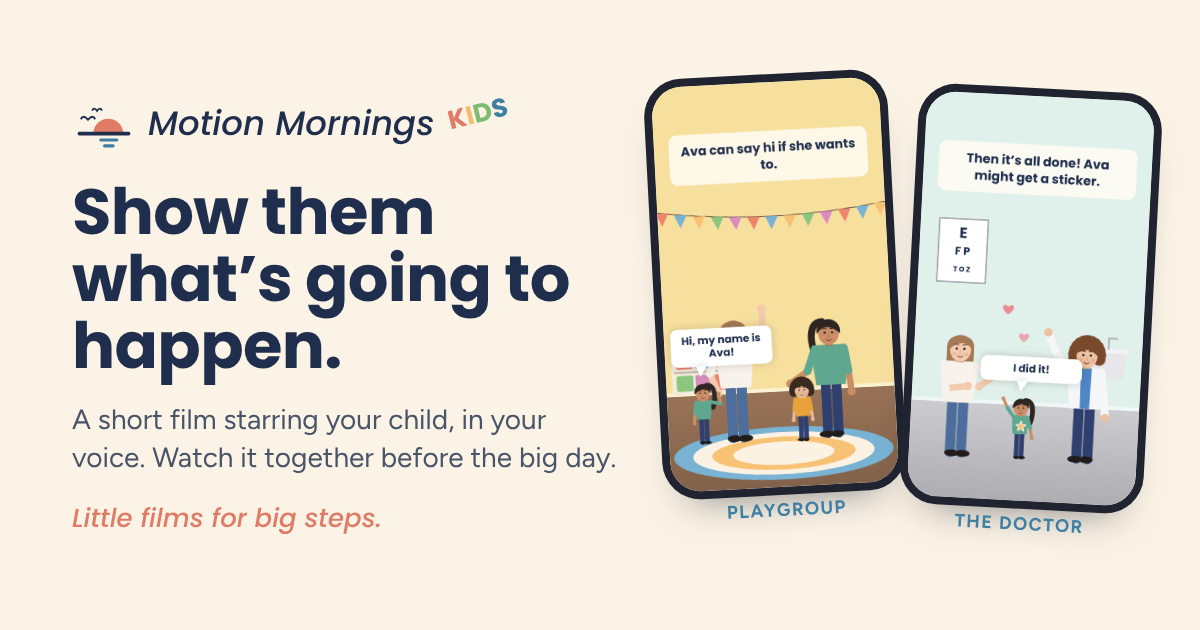
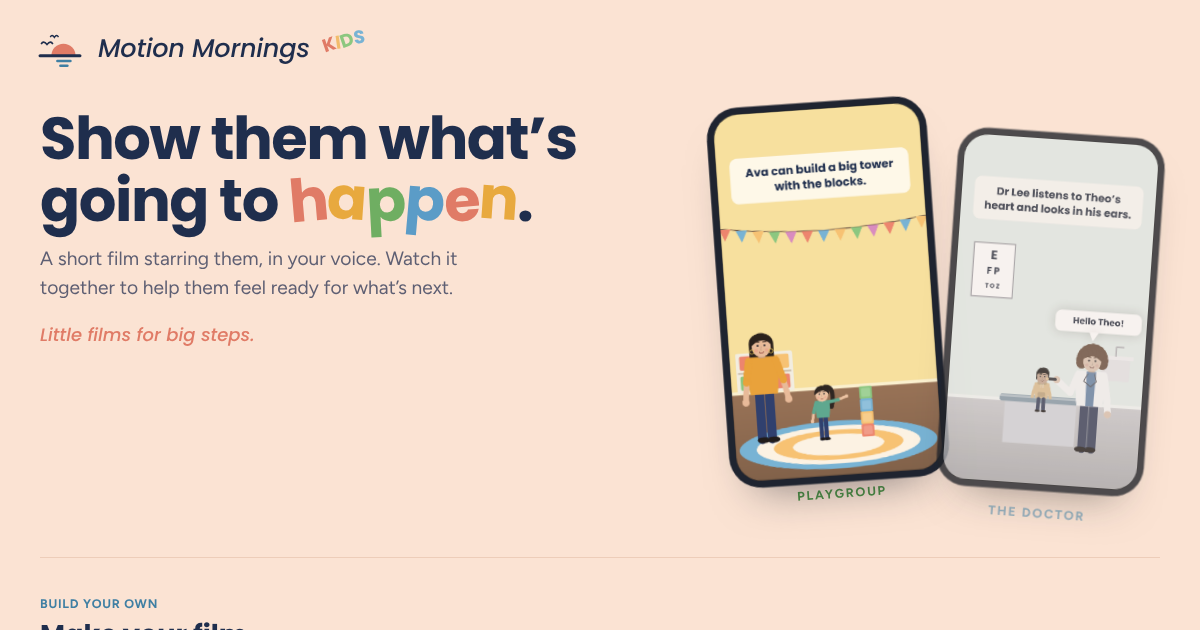
Look-over fixes: natural stand-in wording in the kids builder, Playgroup spelling, fresh link-preview images and text (own preview for /you), old kids box removed from /you, roomier kids header on phones (#32)
Claude-Session: https://claude.ai/code/session_01EiGRAPB16WZcCR3Jve5B77

diff --git a/kids.js b/kids.js
@@ -21,8 +21,8 @@
   const MUSIC = [['none', 'No music'], ['morning-mood', 'Morning Mood'], ['italian-andante', 'Italian Andante'], ['vltava', 'Vltava'], ['figaro', 'Figaro']];
   const TEMPLATES = {
     playgroup: { label: 'Playgroup', blurb: 'Arriving, toys, other kids, going home', story: {
-      title: '{child} Goes to Play Group', ending: 'Play group was fun!', steps: [
-        { scene: 'goto', place: 'Play group', text: 'Today {adult} and {child} are going to play group.' },
+      title: '{child} Goes to Playgroup', ending: 'Playgroup was fun!', steps: [
+        { scene: 'goto', place: 'Playgroup', text: 'Today {adult} and {child} are going to playgroup.' },
         { scene: 'arrive', text: 'When they get there, {helper} will say hello.', say: { who: 'child', words: 'Hi {helper}!' } },
         { scene: 'blocks', text: '{child} can play with all the toys.' },
         { scene: 'others', text: 'Other kids and grown-ups will come too.' },
@@ -421,7 +421,7 @@
     drawPortraits(0);
   }
   // a new name flows through the story: the old name (or the stand-in) is swapped wherever it appears
-  const STAND_IN = { child: 'the child', adult: 'Mum', helper: 'a friend', baby: 'the baby' };
+  const STAND_IN = { child: 'your little one', adult: 'Mum', helper: 'a friend', baby: 'the baby' };
   const standIn = role => role === 'adult' ? ({ m: 'Dad', f: 'Mum', x: 'their grown-up' }[sexOf(S.cast.adult)]) : role === 'sibling' ? ({ m: 'their brother', f: 'their sister', x: 'their sibling' }[sexOf(S.cast.siblings[0] || {})]) : STAND_IN[role];
   function renameIn(role, oldName, newName) {
     const from = (oldName || '').trim() || standIn(role), to = newName.trim() || standIn(role);
@@ -529,7 +529,7 @@
       const sc = K.SC[st.scene] || K.SC.goto, cv = el('canvas', { width: 168, height: 299 });
       const thumb = el('button', { class: 'thumb', type: 'button', 'aria-label': `Step ${i + 1} picture: ${sc.label}. Change it`, onclick: () => pickScene(st) }, cv, el('span', { class: 'chg' }, 'Change'));
       const extras = el('div', { class: 'extras' },
-        sc.place ? el('label', {}, 'Sign on the building', el('input', { type: 'text', id: `place-${st.id}`, value: st.place || '', maxlength: '20', placeholder: 'e.g. Play group', oninput: e => { st.place = e.target.value; sceneThumb(cv, st.scene, st.place, st); refresh(); seekTo(st.id); } })) : null,
+        sc.place ? el('label', {}, 'Sign on the building', el('input', { type: 'text', id: `place-${st.id}`, value: st.place || '', maxlength: '20', placeholder: 'e.g. Playgroup', oninput: e => { st.place = e.target.value; sceneThumb(cv, st.scene, st.place, st); refresh(); seekTo(st.id); } })) : null,
         el('label', {}, 'Clock shows a time', el('input', { type: 'text', id: `time-${st.id}`, value: st.time || '', maxlength: '8', placeholder: 'e.g. 9:00', inputmode: 'numeric', oninput: e => { st.time = e.target.value; refresh(); seekTo(st.id); } })),
         sc.pair && S.cast.friends.length && S.cast.siblings.length ? el('label', {}, 'The other child', el('select', { id: `with-${st.id}`, onchange: e => { st.with = e.target.value; sceneThumb(cv, st.scene, st.place, st); refresh(); seekTo(st.id); } }, [['sibling', S.cast.siblings[0].name || 'Brother or sister'], ['friend', S.cast.friends[0].name || 'Friend']].map(([v, n]) => el('option', { value: v, selected: (st.with || (S.cast.siblings.length ? 'sibling' : 'friend')) === v }, n)))) : null,
         el('label', { class: 'switch glimpse' }, el('input', { type: 'checkbox', id: `glimpse-${st.id}`, checked: !!st.glimpse, onchange: e => { st.glimpse = e.target.checked; refresh(); seekTo(st.id); } }), 'Show as big calm words'));
@@ -564,7 +564,7 @@
         seen.add(key);
         const cv = el('canvas', { width: 180, height: 320 });
         g.append(el('button', { type: 'button', 'aria-pressed': String(st.scene === key), onclick: () => { st.scene = key; if (K.SC[key].place && !st.place) st.place = key === 'cafe' ? 'Cafe' : ''; $('#scenePick').hidden = true; renderStory(); refresh(); seekTo(st.id); } }, cv, el('span', {}, K.SC[key].label)));
-        sceneThumb(cv, key, st.place || (key === 'cafe' ? 'Cafe' : key === 'goto' ? 'Play group' : ''), st);
+        sceneThumb(cv, key, st.place || (key === 'cafe' ? 'Cafe' : key === 'goto' ? 'Playgroup' : ''), st);
       });
     });
     if (!all && shown !== K.PLACES) g.append(el('div', { class: 'more' }, el('button', { class: 'btn ghost', type: 'button', id: 'moreScenes', onclick: () => { pickScene(st, true); $('#scenePick .box').scrollTop = 0; } }, 'More scenes from other places')));

diff --git a/you.html b/you.html
@@ -5,7 +5,7 @@
 <meta name="color-scheme" content="light">
 <meta name="viewport" content="width=device-width,initial-scale=1,viewport-fit=cover">
 <title>Motion Mornings: see it every morning, live it every day</title>
-<meta name="description" content="Custom animated films starring you, or anyone in your world. Build the life you want, or show a child what's going to happen before the big day. See it first, then live it.">
+<meta name="description" content="A one-minute film starring you, doing the everyday things that build the life you want. See it every morning. Live it every day.">
 <meta name="theme-color" content="#FBF3E6">
 <link rel="icon" href="/favicon.svg" type="image/svg+xml">
 <link rel="apple-touch-icon" href="/apple-touch-icon.png">
@@ -18,9 +18,9 @@
 <script>if (/^#r=/.test(location.hash) || /[?&]r=/.test(location.search)) document.documentElement.className += ' restoring';</script>
 <meta property="og:type" content="website">
 <meta property="og:url" content="https://motionmornings.com/you.html">
-<meta property="og:title" content="Motion Mornings: little films for big steps">
-<meta property="og:description" content="Custom animated films starring you, or anyone in your world. See it first, then live it.">
-<meta property="og:image" content="https://motionmornings.com/og-home.png">
+<meta property="og:title" content="Motion Mornings: see it every morning, live it every day">
+<meta property="og:description" content="A one-minute film starring you, doing the everyday things that build the life you want. See it every morning. Live it every day.">
+<meta property="og:image" content="https://motionmornings.com/og-you.png?v=1">
 <meta property="og:image:width" content="1200">
 <meta property="og:image:height" content="630">
 <meta name="twitter:card" content="summary_large_image">
@@ -457,14 +457,6 @@ input[type=range]{height:30px;touch-action:none}
     </div>
   </section>
 
-  <section class="kidsband" aria-labelledby="kidsTitle">
-    <div class="kidscopy">
-      <span class="pill">Motion Mornings <span class="kidsword" aria-hidden="true"><span>K</span><span>I</span><span>D</span><span>S</span></span></span>
-      <h2 id="kidsTitle">Got a little one facing something new?</h2>
-      <p class="lede">Make a short film that shows them exactly what's going to happen, step by step, starring them and in your voice. Playgroup, trying a new food, a busy room. Watch it together until it feels familiar.</p>
-    </div>
-    <a class="btn coral" href="/kids.html">Make a kids film</a>
-  </section>
 
   <div id="builder" class="builder">
   <header class="buildhead"><span class="pill">Build your own</span><h2 id="buildTitle">Make your film</h2><p class="lede">Each morning it trains your mind to see you as someone who does these things. Pick what matters, add your people, check your scenes. The preview updates as you go.</p></header>

diff --git a/engine.js b/engine.js
@@ -2642,8 +2642,14 @@ const KIDS = (() => {
     const sx = c2 => c2.sex || (c2.body === 'm' ? 'm' : 'f'), sn = (SB(c).name || '').trim() || ({ m: 'their brother', f: 'their sister', x: 'their sibling' }[sx(SB(c))]), bn = (BB(c).name || '').trim() || 'the baby';
     const fn0 = ((c.friends && c.friends[0] && c.friends[0].name) || '').trim() || 'their friend';
     text = String(text || '').replace(/\{sibling\}/g, sn).replace(/\{baby\}/g, bn).replace(/\{friend\}/g, fn0);
-    const kn = (KID(c).name || '').trim() || 'the child', an = (AD(c).name || '').trim() || ({ m: 'Dad', f: 'Mum', x: 'their grown-up' }[sx(AD(c))]), hn = (HP(c).name || '').trim() || 'a friend';
-    return String(text || '').replace(/\{child\}/g, kn).replace(/\{adult\}/g, an).replace(/\{helper\}/g, hn);
+    // before names are typed in, stand-ins that still read naturally: "your little one", or "Little One" in a title
+    const raw = String(text || ''), isTitle = !/[.!?]\s*$/.test(raw.trim()) && /\{child\}/.test(raw) && /\b[A-Z][a-z]+\b.*\b[A-Z][a-z]+\b/.test(raw.replace(/\{[a-z]+\}/g, ''));
+    const kn = (KID(c).name || '').trim() || (isTitle ? 'Little One' : 'your little one'), an = (AD(c).name || '').trim() || ({ m: 'Dad', f: 'Mum', x: 'their grown-up' }[sx(AD(c))]), hn = (HP(c).name || '').trim() || 'a friend';
+    let out = raw.replace(/\{child\}/g, kn).replace(/\{adult\}/g, an).replace(/\{helper\}/g, hn);
+    out = out.replace(/\b(Hi|Hello|Bye|Goodbye),? (a friend|their friend|their brother|their sister|their sibling|the baby|your little one)!/gi, '$1!');
+    out = out.replace(/,? my name is (your little one|Little One)!/gi, '!');
+    // sentences start with a capital
+    return out.replace(/(^\s*|[.!?]\s+)([a-z])/g, (m, a, b) => a + b.toUpperCase());
   }
 
   // ---- timing: every step is long enough for its words, or for the voice recorded for it
@@ -2734,7 +2740,7 @@ const KIDS = (() => {
     pets: [{ type: 'dog', name: 'Biscuit', coat: '#C9A060', ears: 'floppy', size: 'm', muzzle: 'dark' }], baby: {} };
   const DEMOS = {
     playgroup: { label: 'Playgroup', music: 'morning-mood', cast: DEMO_CAST, story: { title: 'Ava Goes to Playgroup', ending: 'Playgroup was fun!', steps: [
-      { id: 'd1', scene: 'goto', place: 'Play group', text: 'On Wednesday, Mum and Ava are going to playgroup.' },
+      { id: 'd1', scene: 'goto', place: 'Playgroup', text: 'On Wednesday, Mum and Ava are going to playgroup.' },
       { id: 'd2', scene: 'arrive', text: 'Miss Jo is there to say hello.', say: { who: 'child', words: 'Hi Miss Jo!' } },
       { id: 'd3', scene: 'blocks', text: 'Ava can build a big tower with the blocks.' },
       { id: 'd4', scene: 'others', text: 'Other kids come too. Leo is there!', say: { who: 'friend', words: 'Hi Ava!' } },

diff --git a/kids.html b/kids.html
@@ -5,7 +5,7 @@
 <meta name="color-scheme" content="light">
 <meta name="viewport" content="width=device-width,initial-scale=1,viewport-fit=cover">
 <title>Motion Mornings Kids: show them what's going to happen</title>
-<meta name="description" content="Make a short animated film that shows a child exactly what's going to happen, starring them. Watch it together before the big day.">
+<meta name="description" content="Make a short animated film that shows a child exactly what's going to happen, starring them. Watch it together to help them feel ready for what's next.">
 <meta name="theme-color" content="#FBE3D3">
 <link rel="icon" href="/favicon.svg" type="image/svg+xml">
 <link rel="apple-touch-icon" href="/apple-touch-icon.png">
@@ -13,7 +13,7 @@
 <meta property="og:url" content="https://motionmornings.com/kids.html">
 <meta property="og:title" content="Motion Mornings Kids: show them what's going to happen">
 <meta property="og:description" content="A short film starring them, in your voice. Watch it together to help them feel ready for what&rsquo;s next. Little films for big steps.">
-<meta property="og:image" content="https://motionmornings.com/og-kids.png">
+<meta property="og:image" content="https://motionmornings.com/og-kids.png?v=2">
 <meta property="og:image:width" content="1200">
 <meta property="og:image:height" content="630">
 <link rel="preconnect" href="https://fonts.googleapis.com">
@@ -333,6 +333,7 @@ html,body{overflow-x:clip}
 .navpanel a[aria-current="page"]{color:#E07B66}
 .navpanel hr{border:0;border-top:1px solid #E6D8C2;margin:6px 8px}
 .brand h1{white-space:nowrap}
+@media (max-width:420px){.kidsmark{font-size:1rem;margin-left:0;transform:rotate(-14deg) translateY(-7px)}}
 @media (max-width:520px){.top{padding-right:44px}.mmnav{top:30px}.navbtn{width:36px;height:36px}.brand{gap:9px}}
 .crosslink{flex-basis:100%;margin:6px 0 0;font-size:.95rem;color:var(--muted)}
 .crosslink a{color:var(--ink);font-weight:600;text-underline-offset:3px}

diff --git a/index.html b/index.html
@@ -5,7 +5,7 @@
 <meta name="color-scheme" content="light">
 <meta name="viewport" content="width=device-width,initial-scale=1,viewport-fit=cover">
 <title>Motion Mornings: little films for big steps</title>
-<meta name="description" content="Custom animated films starring you, or anyone in your world. Build the life you want, or show a child what's going to happen before the big day. See it first, then live it.">
+<meta name="description" content="Custom animated shorts of you, or a child in your life, taking the steps towards living your best lives. Watch it daily. Live it each day.">
 <meta name="theme-color" content="#1C2747">
 <link rel="icon" href="/favicon.svg" type="image/svg+xml">
 <link rel="apple-touch-icon" href="/apple-touch-icon.png">
@@ -31,8 +31,8 @@
 <meta property="og:type" content="website">
 <meta property="og:url" content="https://motionmornings.com/">
 <meta property="og:title" content="Motion Mornings: little films for big steps">
-<meta property="og:description" content="Custom animated films starring you, or anyone in your world. See it first, then live it.">
-<meta property="og:image" content="https://motionmornings.com/og-home.png">
+<meta property="og:description" content="Custom animated shorts of you, or a child in your life, taking the steps towards living your best lives. Watch it daily. Live it each day.">
+<meta property="og:image" content="https://motionmornings.com/og-home.png?v=2">
 <meta property="og:image:width" content="1200">
 <meta property="og:image:height" content="630">
 <meta name="twitter:card" content="summary_large_image">
